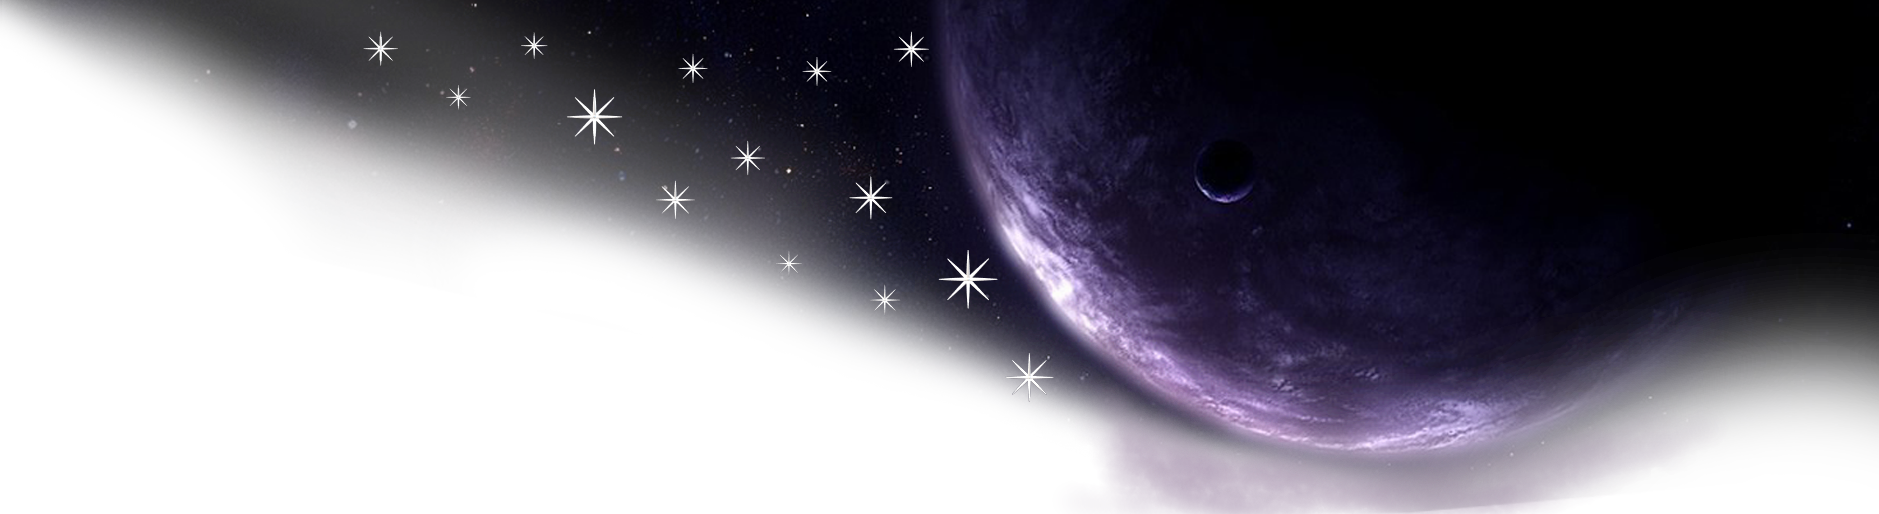
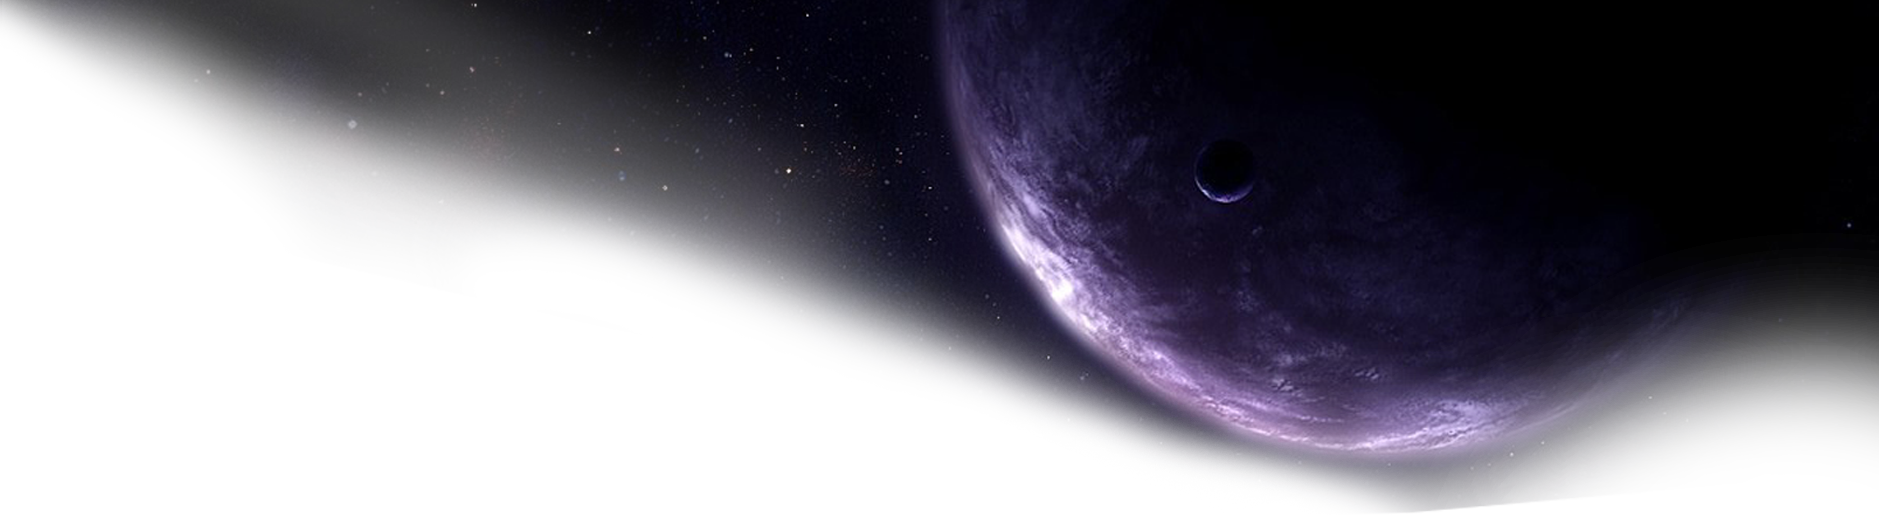
adjusted about section

diff --git a/src/index.html b/src/index.html
@@ -154,7 +154,7 @@
           <img src="http://192.168.1.193:8080/assets/me.png" alt="">
         </div>
       <div class="about-div">
-        <p>Lorem ipsum dolor sit amet consectetur adipisicing elit. Et neque vel a accusamus aliquid vero rerum itaque ipsum quasi rem sequi animi nesciunt ipsa aspernatur, voluptatum quidem quis. Voluptates dolorum rerum amet repellat praesentium similique dolore quisquam? Vero illum soluta dolores deserunt aspernatur numquam recusandae aperiam a, error ut earum, nam eum blanditiis quae, adipisci est voluptatem. Aliquid sunt rerum magni, amet qui quos veritatis dolores tempore, dicta illo numquam excepturi! Officia a ipsa tenetur incidunt alias laborum quia velit? Rem, ea earum veniam, architecto impedit itaque nobis facilis voluptatibus, repudiandae cupiditate quasi aut delectus eum ratione! Mollitia dolorem iste est ex. Quos obcaecati, est vel id cumque quam eos impedit aliquid aliquam reiciendis voluptates porro soluta expedita voluptatem error eveniet quisquam praesentium cupiditate dolores. Illum nobis omnis at, adipisci perspiciatis, architecto, error maiores doloribus laborum esse dicta fugiat consectetur non unde enim deleniti quas maxime ipsam in labore voluptatum.</p>
+        <p class="about-text">Lorem ipsum dolor sit amet consectetur adipisicing elit. Et neque vel a accusamus aliquid vero rerum itaque ipsum quasi rem sequi animi nesciunt ipsa aspernatur, voluptatum quidem quis. Voluptates dolorum rerum amet repellat praesentium similique dolore quisquam? Vero illum soluta dolores deserunt aspernatur numquam recusandae aperiam a, error ut earum, nam eum blanditiis quae, adipisci est voluptatem. Aliquid sunt rerum magni, amet qui quos veritatis dolores tempore, dicta illo numquam excepturi! Officia a ipsa tenetur incidunt alias laborum quia velit? Rem, ea earum veniam, architecto impedit itaque nobis facilis voluptatibus, repudiandae cupiditate quasi aut delectus eum ratione! Mollitia dolorem iste est ex. Quos obcaecati, est vel id cumque quam eos impedit aliquid aliquam reiciendis voluptates porro soluta expedita voluptatem error eveniet quisquam praesentium cupiditate dolores. Illum nobis omnis at, adipisci perspiciatis, architecto, error maiores doloribus laborum esse dicta fugiat consectetur non unde enim deleniti quas maxime ipsam in labore voluptatum.</p>
       </div>
       </div>
     </section>

diff --git a/css/main.css b/css/main.css
@@ -259,7 +259,7 @@ a:active {
   padding: 0.3% 4.5%;
   display: flex;
   border-radius: 5px;
-  margin-top: 2%;
+  margin-top: -7%;
   margin-bottom: 1%;
   box-shadow: 5px 10px 30px 8px #46324648;
   background-color: #673a7c;
@@ -568,14 +568,14 @@ a:active {
 .about-div {
   display: flex;
   width: 95%;
-  height: 65%;
+  height: 45%;
   margin-bottom: 5%;
   border-radius: 0.5rem;
   flex-wrap: wrap;
-  box-shadow: 5px 10px 30px 8px #46324648;
-  background-image: linear-gradient(24deg, rgba(74, 17, 94, 0.143592) 59%, rgba(74, 17, 94, 0.48813) 74%, rgba(86, 0, 152, 0) 97%), url("http://192.168.1.193:8080/assets/planet.png");
+  background-image: linear-gradient(24deg, rgba(74, 17, 94, 0) 59%, rgba(74, 17, 94, 0.48813) 74%, rgba(86, 0, 152, 0) 97%), linear-gradient(45deg, rgba(32, 1, 48, 0.305) 0%, rgba(57, 55, 55, 0.2) 75%), url("http://192.168.1.193:8080/assets/pl.png");
   background-repeat: no-repeat;
   background-blend-mode: saturation;
+  box-shadow: 5px 10px 30px 8px #46324648;
 }
 
 .third-section-title h1 {
@@ -607,23 +607,29 @@ a:active {
 
 .my-image {
   position: absolute;
-  margin-top: 22.5%;
-  left: 2%;
+  top: 30%;
+  left: 4%;
 }
 
 #third-section .about-div p {
   font-size: 1.8rem;
-  margin: 13%;
+  margin: 10% auto;
   padding: 2%;
   background-color: #f8f1fa;
   border-radius: 2%;
+  box-shadow: 5px 10px 30px 8px #46324648;
+}
+
+.about-text {
+  width: 65%;
 }
 
 .divider {
   border-bottom: 2px solid #4b3753;
   width: 90%;
   margin: 0 auto;
-  margin-top: 4%;
+  margin-top: 1%;
+  margin-bottom: -2%;
   height: 2rem;
 }
 

diff --git a/src/styles/main.scss b/src/styles/main.scss
@@ -250,7 +250,7 @@ a:active {
   display: flex;
   
   border-radius: 5px;
-  margin-top: 2%;
+  margin-top: -7%;
   margin-bottom: 1%;
  
   box-shadow: 5px 10px 30px 8px #46324648;
@@ -567,14 +567,14 @@ a:active {
 .about-div {
   display: flex;
   width: 95%;
-  height: 65%;
+  height: 45%;
   margin-bottom: 5%;
   border-radius: 0.5rem;
   flex-wrap: wrap;
-  box-shadow: 5px 10px 30px 8px #46324648;
-  background-image:  linear-gradient(24deg, rgba(74,17,94,0.14359247116815477) 59%, rgba(74,17,94,0.4881302862942052) 74%, rgba(86,0,152,0) 97%), url("http://192.168.1.193:8080/assets/planet.png");
+  background-image:  linear-gradient(24deg, rgba(74, 17, 94, 0) 59%, rgba(74,17,94,0.4881302862942052) 74%, rgba(86,0,152,0) 97%), linear-gradient(45deg, rgba(32, 1, 48, 0.305) 0%, rgba(57,55,55,0.2) 75%), url("http://192.168.1.193:8080/assets/pl.png");
   background-repeat: no-repeat;
   background-blend-mode: saturation;
+  box-shadow: 5px 10px 30px 8px #46324648;
 }
 
 .third-section-title h1 {
@@ -606,23 +606,30 @@ a:active {
 
 .my-image {
   position: absolute;
-  margin-top: 22.5%;
-  left: 2%;
+  top: 30%;
+  left: 4%;
 }
 
 #third-section .about-div p {
   font-size: 1.8rem;
-  margin: 13%;
+  margin: 10% auto;
   padding: 2%;
   background-color: rgb(248, 241, 250);
   border-radius: 2%;
+  box-shadow: 5px 10px 30px 8px #46324648;
+}
+
+.about-text {
+  width: 65%;
+  
 }
 
 .divider {
   border-bottom: 2px solid rgb(75, 55, 83);
   width: 90%;
   margin: 0 auto;
-  margin-top: 4%;
+  margin-top: 1%;
+  margin-bottom: -2%;
   height: 2rem;
 }
 

diff --git a/src/index.js b/src/index.js
@@ -15,6 +15,7 @@ import knexLogo from "/static/knex-icon.png";
 import pythonLogo from "/static/python-logo.png";
 import postgresLogo from "/static/postgres-logo.png";
 import planet from "/static/planet.png";
+import pl from "/static/pl.png";
 import avatar from "/static/me.png";
 import linkedIn from "/static/linkedin.svg";
 import smoke from "/static/grape-smoke.mp4";
